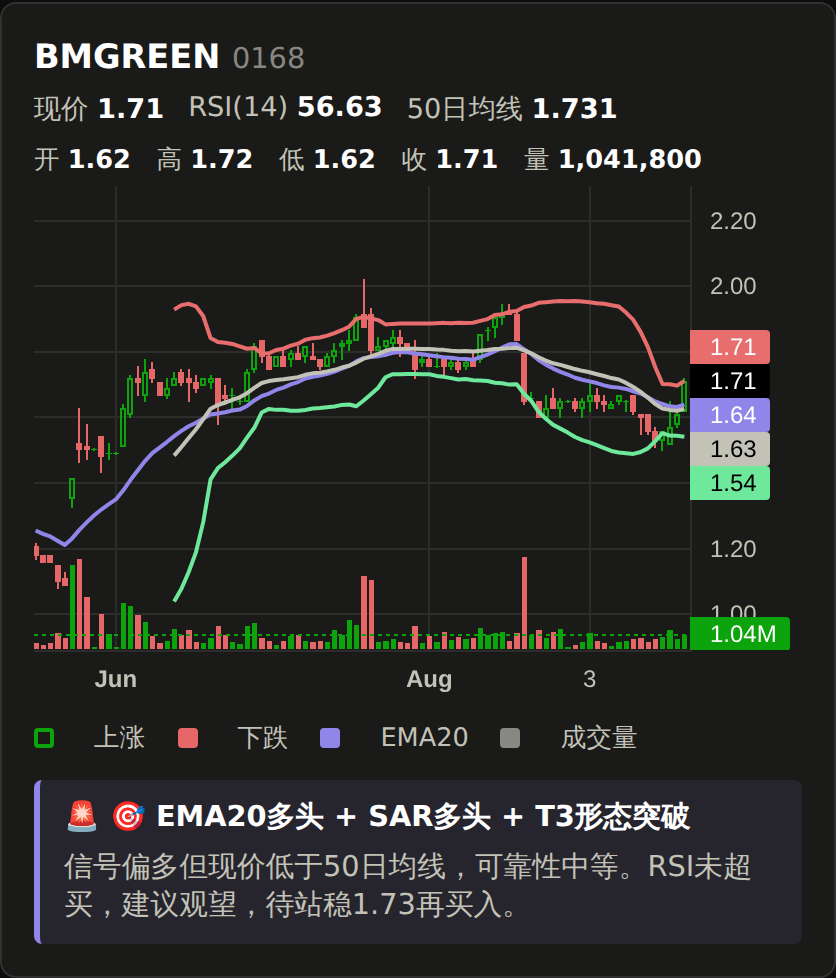
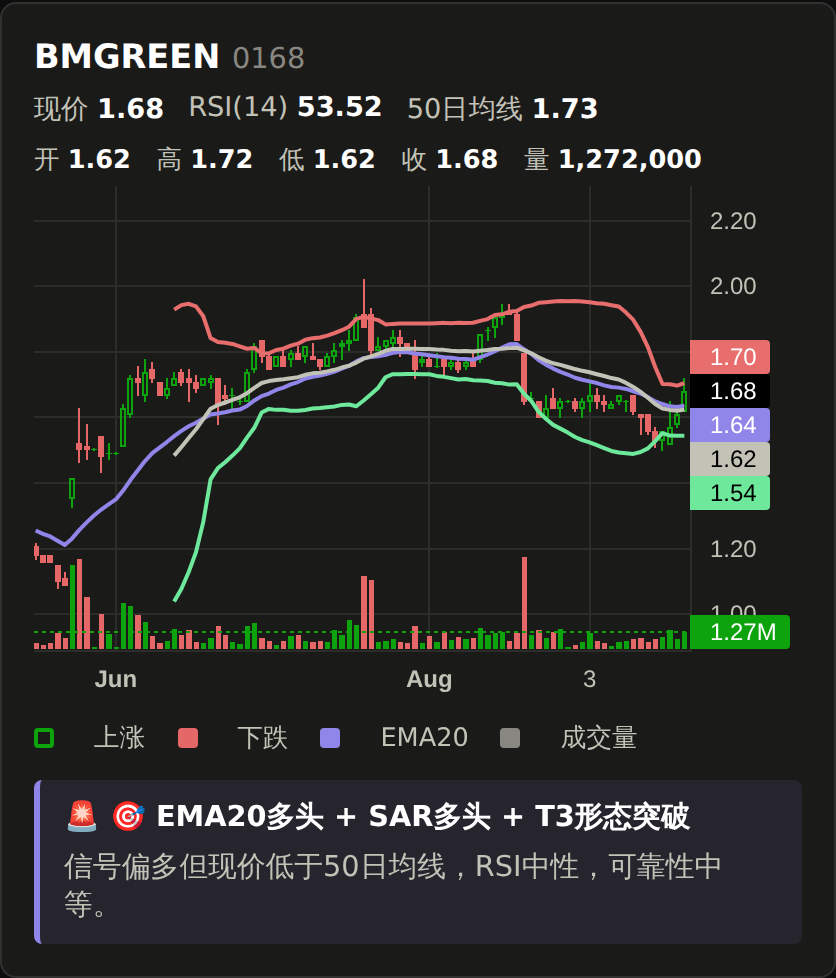
Date picker for report downloads; keep buy/sell advice out of AI comments
- Downloads section: a scrollable 7-day date strip (oldest to newest)
  replaces the per-day list. Picking a day shows its update time,
  signal stocks and row count, and points the CSV / Excel / PDF buttons
  at that day. Defaults to the latest day and works without JS.
- DeepSeek prompt no longer asks for a buy/hold/sell call, and
  strip_trade_advice() drops any clause that still contains trading
  advice before it reaches the card, Excel or PDF.
- Retake the README signal-card screenshots without the advice text.

Claude-Session: https://claude.ai/code/session_01SYyfEYjSnbthf32VXWbRQ3

diff --git a/main.py b/main.py
@@ -2,6 +2,7 @@ import time
 PROCESS_START = time.perf_counter()  # 用来算"导入库"花了多久 (pandas_ta 会带进 numba，导入本身就要几秒)
 
 import os
+import re
 import json
 import html
 import yfinance as yf
@@ -292,11 +293,32 @@ def check_strategy(data):
 # 从第二支股票开始这一段就能命中缓存、按缓存价计费，比混在一起写省钱也通常更快。
 DEEPSEEK_SYSTEM_PROMPT = """你是专业的马来西亚股市分析师，同时是严谨的金融助手。
 
-任务: 根据用户给出的某支股票的技术信号和基本数据，用简短的中文 (50字以内) 完成两件事：
-1. 评价这个信号的可靠性。
-2. 给出"买入/观望/卖出"建议。
+任务: 根据用户给出的某支股票的技术信号和基本数据，用简短的中文 (50字以内) 从技术面评价这个信号的可靠性，
+例如 RSI 是否偏高或超买、现价相对 50 日均线的位置。
+
+严格要求: 只做客观的技术面描述，不要给出任何操作或投资建议，
+不要出现买入、卖出、观望、持有、加仓、减仓、止损、止盈、目标价之类的字眼。
 
 接下来用户消息里会给出这支股票的具体数据，请只根据这些数据作答，不要虚构未提供的信息。"""
+
+# 就算模型没听话，也把带操作建议的分句删掉再放进报告 (图表下方、Excel、PDF 都用这个结果)
+TRADE_ADVICE_RE = re.compile(
+    r"买入|买进|卖出|抛售|观望|建议|加仓|减仓|建仓|清仓|止损|止盈|目标价|入场|进场|离场|出场|持有|逢低|逢高|介入"
+)
+
+
+def strip_trade_advice(text):
+    """按标点切成分句，去掉含操作建议字眼的分句；全部被去掉就返回空字符串 (页面上不显示点评)。"""
+    if not text:
+        return ""
+    parts = re.split(r"([，,。！？!?；;：:\n])", text)
+    kept = []
+    for i in range(0, len(parts), 2):
+        clause, sep = parts[i], parts[i + 1] if i + 1 < len(parts) else ""
+        if clause.strip() and not TRADE_ADVICE_RE.search(clause):
+            kept.append(clause + sep)
+    result = "".join(kept).strip().rstrip("，,；;：:")
+    return result + "。" if result and result[-1] not in "。！？!?" else result
 
 
 def ask_deepseek(data, reason):
@@ -1361,51 +1383,150 @@ DOWNLOADS_CSS = """
   .downloads > summary::after { content: " ▸"; color: var(--muted); }
   .downloads[open] > summary::after { content: " ▾"; }
   .downloads-body { padding: 0 0.9rem 0.8rem; }
-  .dl-combined { font-size: 0.82rem; margin: 0 0 0.6rem; color: var(--text-secondary); }
-  .dl-table { border-collapse: collapse; width: 100%; font-size: 0.82rem; }
-  .dl-table td { padding: 0.35rem 0.4rem; border-top: 1px solid var(--border); white-space: nowrap; }
-  .dl-table td.dl-time { color: var(--muted); font-size: 0.75rem; }
+  /* 日期选择条: 左旧右新，放不下时左右滑动 */
+  .dl-days {
+    display: flex;
+    gap: 0.4rem;
+    overflow-x: auto;
+    scroll-snap-type: x proximity;
+    padding: 0.1rem 0 0.5rem;
+    scrollbar-width: thin;
+  }
+  .dl-day {
+    flex: 0 0 auto;
+    scroll-snap-align: end;
+    display: flex;
+    flex-direction: column;
+    align-items: center;
+    min-width: 3.6rem;
+    padding: 0.3rem 0.5rem;
+    border: 1px solid var(--border);
+    border-radius: 8px;
+    background: var(--page);
+    color: var(--text-secondary);
+    font: inherit;
+    cursor: pointer;
+    line-height: 1.25;
+  }
+  .dl-day b { font-size: 0.85rem; color: var(--text-primary); }
+  .dl-day small { font-size: 0.68rem; }
+  .dl-day .dl-sig { color: var(--up); font-size: 0.68rem; font-weight: 600; }
+  .dl-day[aria-checked="true"] { border-color: var(--text-primary); background: var(--surface); box-shadow: inset 0 0 0 1px var(--text-primary); }
+  .dl-day:focus-visible { outline: 2px solid var(--ema); outline-offset: 1px; }
+  .dl-picked { border-top: 1px solid var(--border); padding-top: 0.55rem; }
+  .dl-meta { font-size: 0.82rem; color: var(--text-secondary); margin: 0 0 0.45rem; }
+  .dl-meta b { color: var(--text-primary); }
+  .dl-combined { font-size: 0.78rem; margin: 0.7rem 0 0; color: var(--muted); }
   .dl-link {
     display: inline-block;
-    padding: 0.1rem 0.5rem;
-    margin-right: 0.3rem;
+    padding: 0.2rem 0.75rem;
+    margin: 0 0.3rem 0.2rem 0;
     border: 1px solid var(--border);
     border-radius: 999px;
     color: var(--text-primary);
     text-decoration: none;
-    font-size: 0.75rem;
+    font-size: 0.8rem;
   }
+  .dl-combined .dl-link { padding: 0.1rem 0.5rem; font-size: 0.75rem; }
   .dl-link:hover { background: var(--page); }
 """
 
+WEEKDAYS_ZH = "一二三四五六日"
+DOWNLOAD_FORMATS = (("csv", "CSV"), ("xlsx", "Excel"), ("pdf", "PDF"))
+
 
 def build_downloads_html(downloads):
-    """报告页面上的"📥 下载报告"区块。没有导出成功 (downloads 为 None) 就不显示。"""
+    """报告页面上的"📥 下载报告"区块：一条近 7 天的日期选择条，选中哪天就下载哪天的 CSV / Excel / PDF。
+    没有导出成功 (downloads 为 None) 就不显示。默认选中最新一天，不开 JS 也能直接下载最新一天。"""
     if not downloads or not downloads.get("days"):
         return ""
 
-    def links(files):
-        return "".join(f'<a class="dl-link" href="downloads/{files[k]}" download>{label}</a>'
-                       for k, label in (("csv", "CSV"), ("xlsx", "Excel"), ("pdf", "PDF")))
+    days = list(reversed(downloads["days"]))  # 选择条左旧右新，跟时间轴方向一致
+    info = []
+    for d in days:
+        dt = datetime.strptime(d["date"], "%Y-%m-%d")
+        signals = d.get("signals", [])
+        sig_text = f"信号 {len(signals)} 支 ({'、'.join(signals)})" if signals else "无信号"
+        info.append({
+            "date": d["date"],
+            "weekday": "周" + WEEKDAYS_ZH[dt.weekday()],
+            "short": f"{dt.month}/{dt.day}",
+            "time": d["generated_at"][-5:],
+            "summary": f"{sig_text} · 共 {d.get('count', 0)} 支",
+            "files": {k: f"downloads/{d['files'][k]}" for k, _ in DOWNLOAD_FORMATS},
+        })
 
-    rows = "".join(
-        f'<tr><td>{d["date"]}</td><td class="dl-time">{d["generated_at"][-5:]} 更新</td><td>{links(d["files"])}</td></tr>'
-        for d in downloads["days"]
+    # 放进 <script> 里，"</" 转义掉，免得名字里万一有 "</script>" 把脚本截断
+    days_json = json.dumps(info, ensure_ascii=False).replace("</", "<\\/")
+    latest = len(info) - 1
+    chips = "".join(
+        f'<button type="button" class="dl-day" role="radio" data-i="{i}" '
+        f'aria-checked="{"true" if i == latest else "false"}" tabindex="{0 if i == latest else -1}" '
+        f'aria-label="{x["date"]} {x["weekday"]}">'
+        f'<b>{x["short"]}</b><small>{x["weekday"]}</small>'
+        f'{"<span class=dl-sig>● 信号</span>" if days[i].get("signals") else "<small>" + x["time"] + "</small>"}'
+        f'</button>'
+        for i, x in enumerate(info)
     )
+    cur = info[latest]
+    buttons = "".join(f'<a class="dl-link" data-fmt="{k}" href="{cur["files"][k]}" download>{label}</a>'
+                      for k, label in DOWNLOAD_FORMATS)
     combined = downloads.get("combined")
     combined_html = (
-        f'<p class="dl-combined">近 {len(downloads["days"])} 天合并：'
+        f'<p class="dl-combined">近 {len(info)} 天合并：'
         f'<a class="dl-link" href="downloads/{combined["xlsx"]}" download>Excel (每天一个工作表)</a>'
         f'<a class="dl-link" href="downloads/{combined["csv"]}" download>CSV</a></p>'
         if combined else ""
     )
-    return f"""<details class="downloads">
+    return f"""<details class="downloads" id="downloads">
   <summary>📥 下载报告 (近 {downloads["keep_days"]} 个交易日)</summary>
   <div class="downloads-body">
+    <div class="dl-days" role="radiogroup" aria-label="选择日期">{chips}</div>
+    <div class="dl-picked">
+      <p class="dl-meta" aria-live="polite"><b>{cur["date"]} {cur["weekday"]}</b> · <span>{cur["time"]} 更新 · {html.escape(cur["summary"])}</span></p>
+      <div>{buttons}</div>
+    </div>
     {combined_html}
-    <table class="dl-table">{rows}</table>
   </div>
-</details>"""
+</details>
+<script>
+(function () {{
+  var DAYS = {days_json};
+  var box = document.getElementById("downloads");
+  if (!box) return;
+  var strip = box.querySelector(".dl-days");
+  var chips = strip.querySelectorAll(".dl-day");
+  var meta = box.querySelector(".dl-meta");
+  function pick(i, focus) {{
+    var d = DAYS[i];
+    chips.forEach(function (c, j) {{
+      c.setAttribute("aria-checked", j === i ? "true" : "false");
+      c.tabIndex = j === i ? 0 : -1;
+    }});
+    meta.querySelector("b").textContent = d.date + " " + d.weekday;
+    meta.querySelector("span").textContent = d.time + " 更新 · " + d.summary;
+    box.querySelectorAll(".dl-link[data-fmt]").forEach(function (a) {{
+      a.href = d.files[a.dataset.fmt];
+    }});
+    if (focus) chips[i].focus();
+    chips[i].scrollIntoView({{block: "nearest", inline: "nearest"}});
+  }}
+  chips.forEach(function (c) {{
+    c.addEventListener("click", function () {{ pick(+c.dataset.i); }});
+  }});
+  strip.addEventListener("keydown", function (e) {{
+    var cur = +(strip.querySelector('[aria-checked="true"]') || chips[0]).dataset.i;
+    var next = {{ArrowLeft: cur - 1, ArrowRight: cur + 1, Home: 0, End: DAYS.length - 1}}[e.key];
+    if (next === undefined) return;
+    e.preventDefault();
+    pick(Math.max(0, Math.min(DAYS.length - 1, next)), true);
+  }});
+  // 展开时把选择条滚到最右 (最新一天)
+  box.addEventListener("toggle", function () {{
+    if (box.open) strip.scrollLeft = strip.scrollWidth;
+  }});
+}})();
+</script>"""
 
 
 # === 7. 生成 HTML 报告 (只有命中信号的股票画 K 线图，其余用表格) ===
@@ -1473,6 +1594,7 @@ def build_html_report(stocks, downloads=None):
             continue
 
         chart_id = f"chart-{code}"
+        ai_html = f"<p>{s['ai_comment']}</p>" if s["ai_comment"] else ""  # 点评被过滤光了就整段不显示
         chart_payload[chart_id] = {"candles": data["candles"], "ema20": data["ema20"], "psar": data["psar"]}
 
         cards.append(f"""<section class="card">
@@ -1494,7 +1616,7 @@ def build_html_report(stocks, downloads=None):
             </div>
             <div class="signal">
                 <strong>🚨 {s['reason']}</strong>
-                <p>{s['ai_comment']}</p>
+                {ai_html}
             </div>
         </section>""")
 
@@ -1817,7 +1939,7 @@ def main():
                 # 防止 DeepSeek 限频：只在两次调用之间停 1 秒，最后一次调用之后不用等
                 if deepseek_calls:
                     time.sleep(1)
-                ai_comment = ask_deepseek(data, reason)
+                ai_comment = strip_trade_advice(ask_deepseek(data, reason))
                 deepseek_calls += 1
                 print(f"✅ 找到机会: {symbol}")
 

diff --git a/exports.py b/exports.py
@@ -253,7 +253,8 @@ def _files_for(date):
 def export_downloads(stocks, today, generated_at, downloads_dir=DOWNLOADS_DIR):
     """
     导出当天的 CSV/Excel/PDF，删掉超出保留天数的旧文件夹，再生成"近 N 天合并"文件。
-    返回给网页用的清单: {"days": [{"date", "files"}...(新→旧)], "combined": {"xlsx", "csv"} 或 None}
+    返回给网页用的清单: {"days": [{"date", "generated_at", "files", "count", "signals"}...(新→旧)],
+                        "combined": {"xlsx", "csv"} 或 None}
     """
     date = report_date_of(stocks, today)
     rows = build_rows(stocks)
@@ -283,7 +284,14 @@ def export_downloads(stocks, today, generated_at, downloads_dir=DOWNLOADS_DIR):
         with open(data_path, encoding="utf-8") as f:
             payload = json.load(f)
         combined_days.append((d, payload["rows"]))
-        days.append({"date": d, "generated_at": payload.get("generated_at", ""), "files": _files_for(d)})
+        days.append({
+            "date": d,
+            "generated_at": payload.get("generated_at", ""),
+            "files": _files_for(d),
+            # 给网页上的日期选择条显示"这一天有什么": 共几支、信号是哪几支
+            "count": len(payload["rows"]),
+            "signals": [r["名称"] for r in payload["rows"] if r["类型"] == "信号"],
+        })
 
     combined = None
     if combined_days:

diff --git a/bursa-bot.md b/bursa-bot.md
@@ -182,7 +182,9 @@ def detect_t3_pattern(df):
 - 旧表格里的 SMA50 列已去掉 (信号卡片里还有)
 
 ### 📥 下载报告 (`exports.py`)
-- 页面上方的 `<details>` 区块 (默认折叠)，列出最近 `KEEP_REPORT_DAYS = 7` 个**报告日** (只有交易日才有报告，所以约一周半)
+- 页面上方的 `<details>` 区块 (默认折叠)，最近 `KEEP_REPORT_DAYS = 7` 个**报告日** (只有交易日才有报告，所以约一周半)
+- 区块里是一条**日期选择条** (左旧右新，手机上左右滑)：每个日期显示 月/日 + 星期 + (有信号时) "● 信号"；点哪天，下方就显示那天的更新时间、信号股名字、共几支，CSV / Excel / PDF 三个按钮跟着换成那天的文件。默认选中最新一天，展开时自动滚到最右；键盘 ←/→/Home/End 可切换。没开 JS 也能下载最新一天 (按钮的默认链接就是最新一天)
+- `export_downloads()` 返回的每一天带 `count` (共几支) 和 `signals` (信号股名字)，从各天的 data.json 读出来
 - 每次运行 `main()` 在生成网页**之前**调用 `export_downloads()`，写到 `docs/downloads/<日期>/`：
   `bursa-report-<日期>.csv / .xlsx / .pdf` + `data.json` (合并文件的数据来源)
 - 同一天跑多次 → 覆盖，保留当天最后一次；超过 7 个日期的文件夹自动删掉 (只删名字是日期的文件夹)
@@ -291,6 +293,8 @@ def is_trading_day(today_myt): ...
 - API key 在 secret `DEEPSEEK_KEY`；`main.py` 开头 fail-fast，没有 key 直接 `SystemExit`
 - **Prompt cache**：固定说明全部放在 `DEEPSEEK_SYSTEM_PROMPT` (纯静态常量，不能拼时间戳/随机数)，每支股票的数据只放 user message。DeepSeek 按"从头逐字节匹配的最长公共前缀"打折，同一次运行命中多支股票时，第二支起能吃到缓存价
 - 每次调用会打印 `prompt_cache_hit_tokens / prompt_cache_miss_tokens`，在 Action 日志里看命中率
+- **不给买卖建议** (9/23 用户要求"图表下方不要出现买卖建议")：以前 prompt 要求给"买入/观望/卖出"建议，BMGREEN 的点评就出现了"建议观望，待站稳1.73再买入"。现在 prompt 只让它从技术面评价信号可靠性，并明确禁止买入/卖出/观望/持有/加减仓/止损/止盈/目标价等字眼
+- 模型不一定每次都听话，所以还有第二道保险 `strip_trade_advice()`：按标点切成分句，含 `TRADE_ADVICE_RE` 里任何字眼的分句整句删掉；全删光就不显示点评。网页卡片、Excel、PDF 都用过滤后的结果。注意"超买"这种技术名词不会被误删 (正则里没有单独的"买"字)
 
 ### 全市场清单怎么来的
 `scripts/fetch_watchlist.py`：

diff --git a/README.md b/README.md
@@ -60,7 +60,7 @@ Bursa Bot 每个交易日自动扫描 **马来西亚交易所全部上市股票*
 同时满足全部四个策略条件的股票。每张卡片包含：
 - **现价 / RSI(14) / 50日均线**，以及手指或鼠标停在 K 线上时显示的当日 开/高/低/收/量
 - **K 线图**：空心蜡烛 = 上涨，实心 = 下跌；紫色线是 EMA20；底部是成交量
-- **AI 点评**：DeepSeek 根据数据给出的一句话评价（仅供参考，可能出错）
+- **AI 点评**：DeepSeek 根据数据给出的一句话技术面评价（只评价信号可靠性，不给买卖建议；仅供参考，可能出错）
 
 ### 📋 其余股票
 没有命中信号、但成交量达标的股票，仿 TradingView 选股器的紧凑表格：
@@ -79,8 +79,8 @@ Bursa Bot 每个交易日自动扫描 **马来西亚交易所全部上市股票*
 默认按成交量从高到低排，点表头可以换排序，上方搜索框可以按代码或名称筛选。
 
 ### 📥 下载报告
-页面上方「📥 下载报告」展开后，可以下载**最近 7 个交易日**的报告：
-- **每天一份**：CSV / Excel / PDF 三种格式（同一天运行多次的话，保留的是当天最后一次的结果）
+页面上方「📥 下载报告」展开后，有一条**最近 7 个交易日**的日期选择条（手机上可以左右滑），点哪一天就下载哪一天：
+- **每天一份**：选好日期后可以看到那天的更新时间、信号股和股票数量，再点 CSV / Excel / PDF 下载（同一天运行多次的话，保留的是当天最后一次的结果）
 - **近 7 天合并**：一个 Excel（每天一个工作表）和一个 CSV（多一列日期）
 
 Excel 里涨跌% 按涨跌上色、表头可以筛选；CSV 带 BOM，用 Excel 直接打开中文不会乱码；PDF 为横向 A4，适合打印或存档。超过 7 天的旧文件会自动删除。
